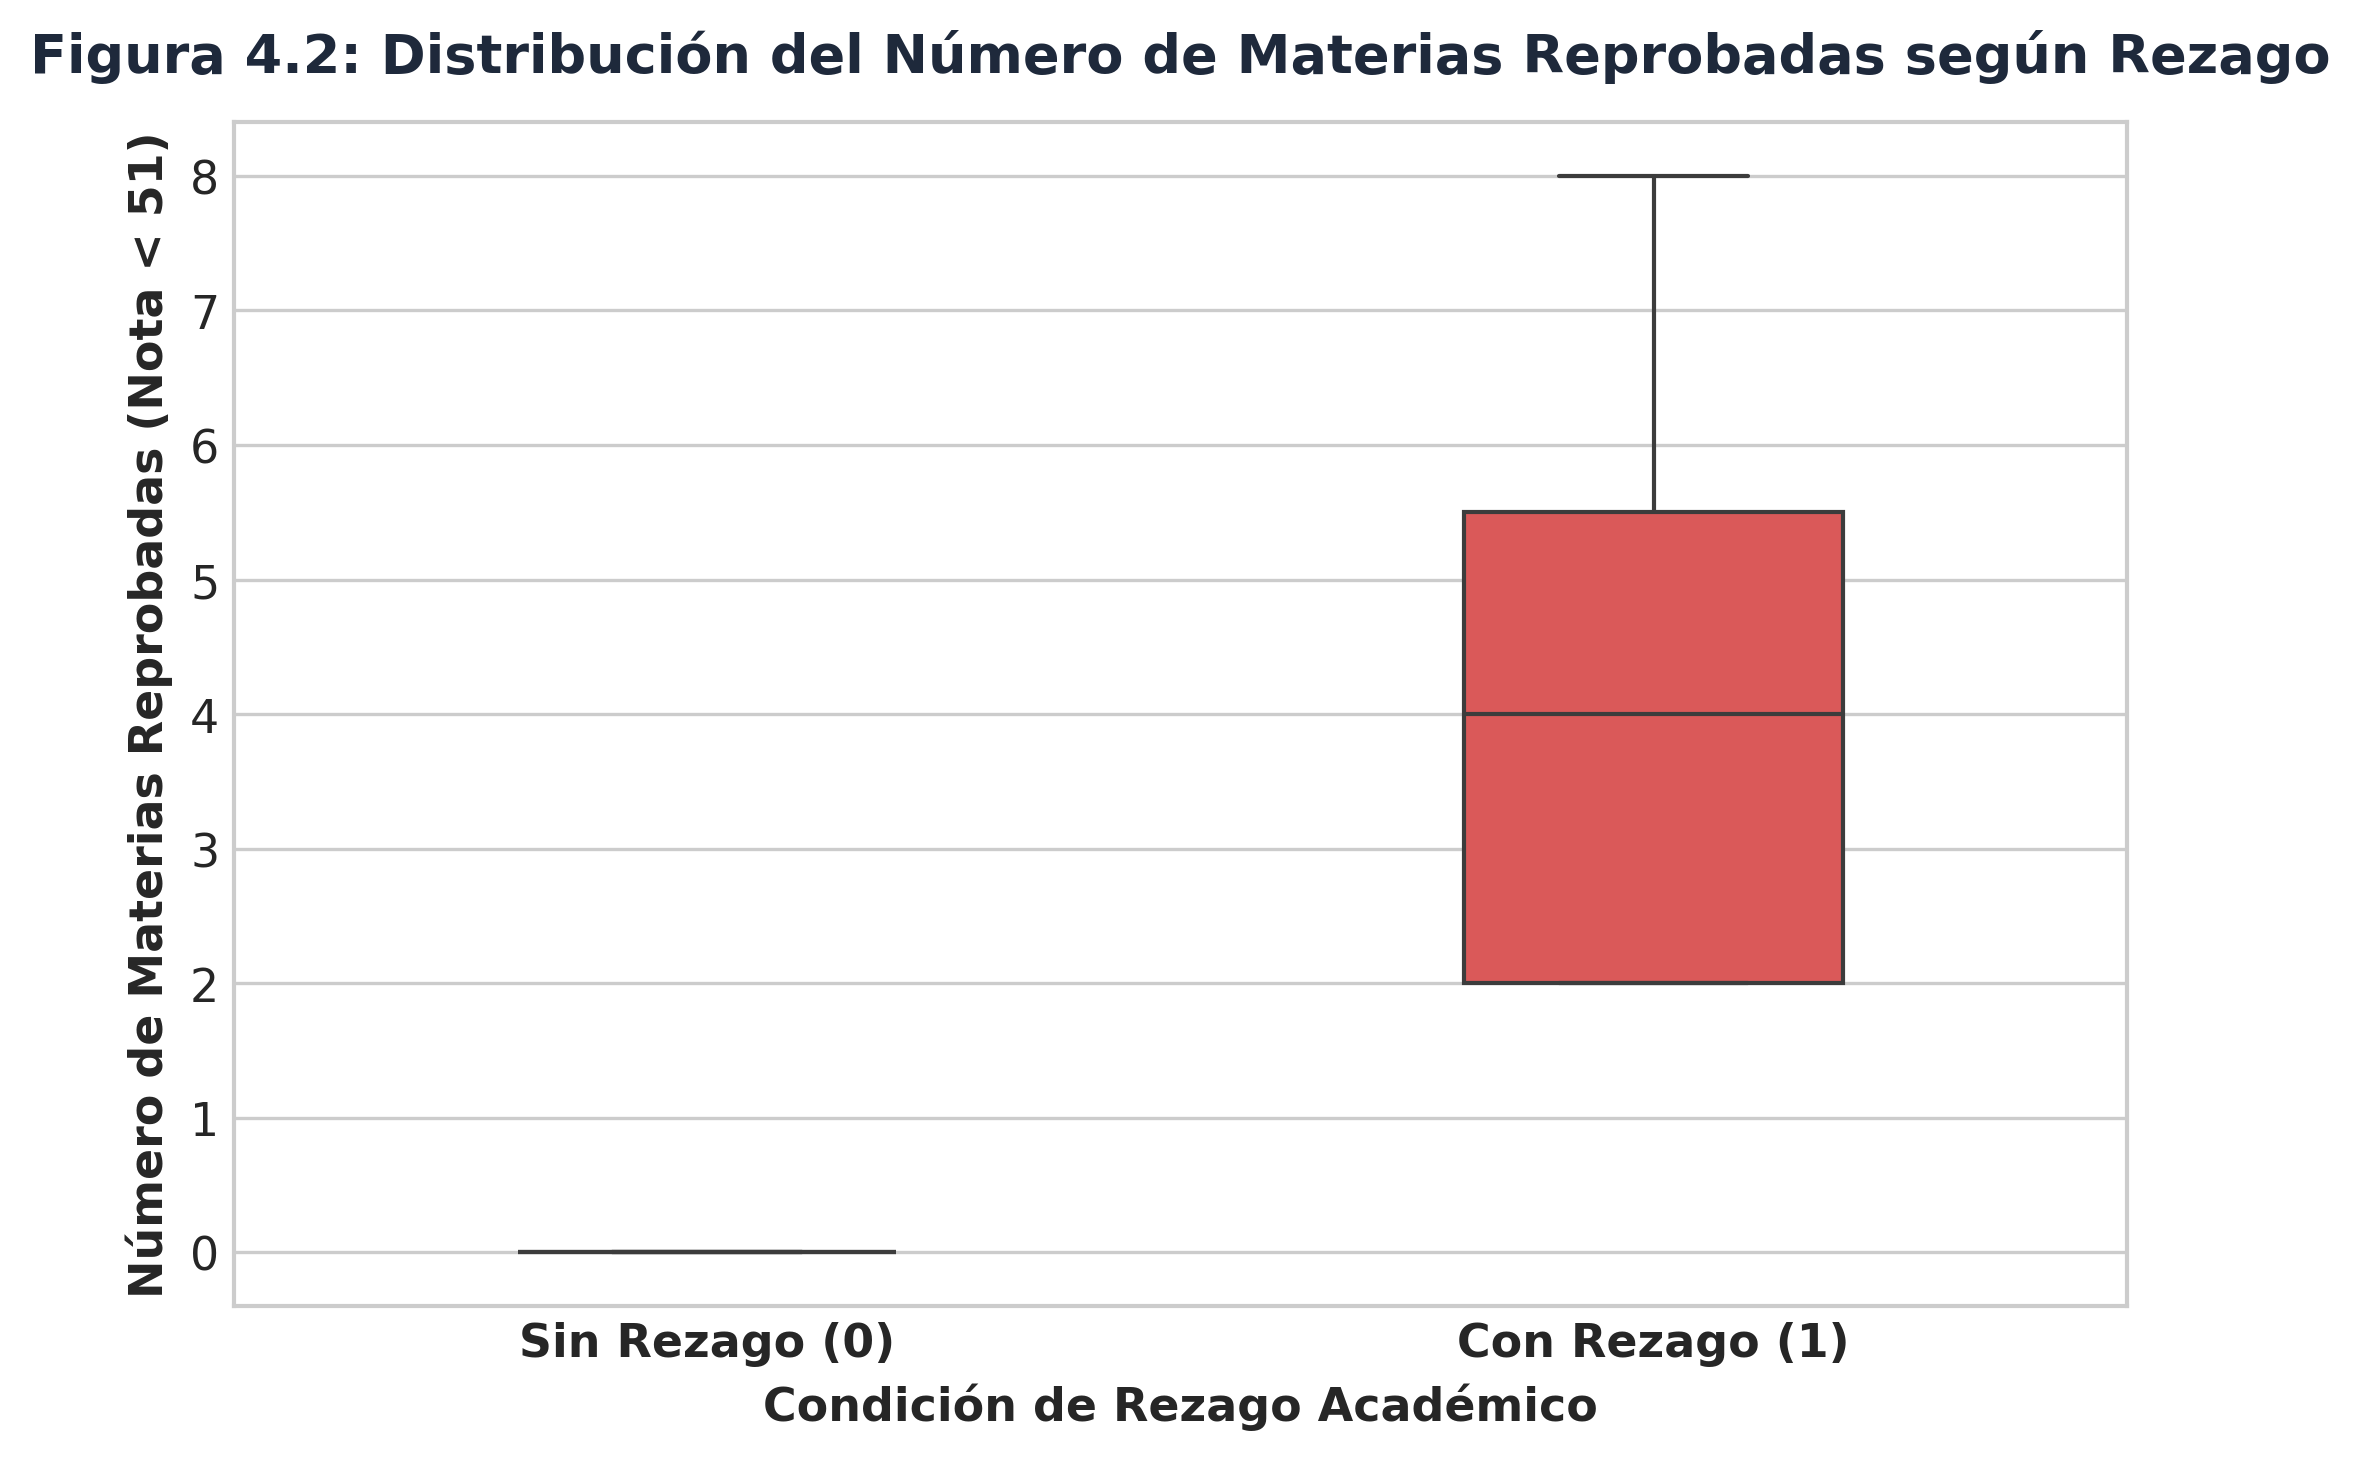
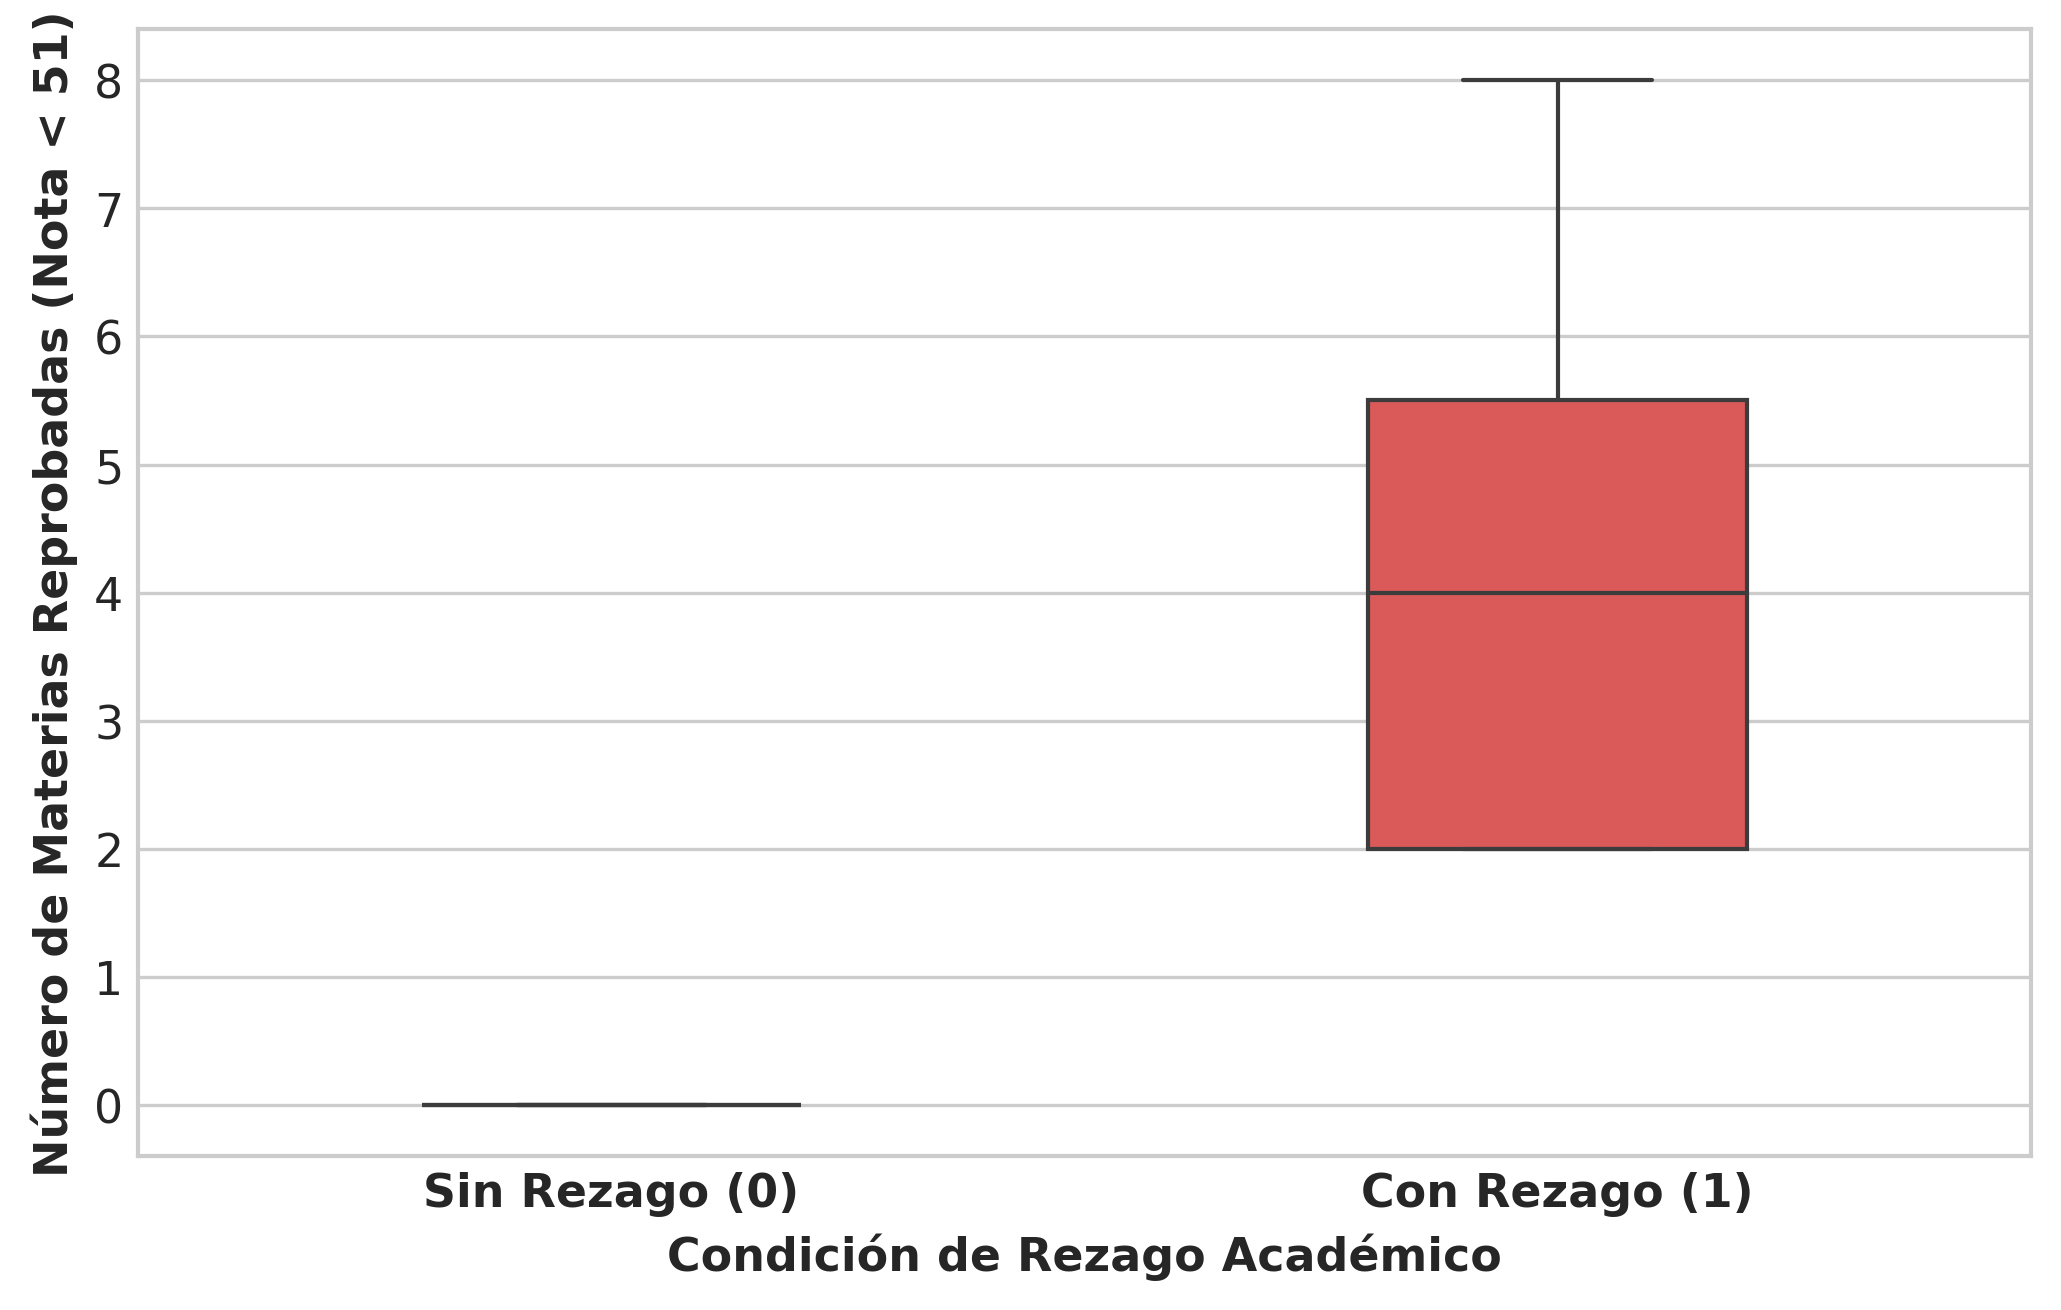
docs: remover titulos 'Figura X.X' del interior de las imagenes para estandar academico

diff --git a/scripts/generate_all_figures.py b/scripts/generate_all_figures.py
@@ -11,9 +11,8 @@ from sklearn.metrics import confusion_matrix
 plt.style.use('seaborn-v0_8-whitegrid')
 plt.rcParams['font.sans-serif'] = 'DejaVu Sans'
 plt.rcParams['font.size'] = 11
-plt.rcParams['axes.titlesize'] = 13
+plt.rcParams['axes.titlesize'] = 12
 plt.rcParams['axes.labelsize'] = 11
-plt.rcParams['figure.titlesize'] = 14
 
 FIG_DIR = os.path.abspath("documentacion/figuras")
 os.makedirs(FIG_DIR, exist_ok=True)
@@ -44,7 +43,7 @@ nombres_materias = {
 # FIGURA 3.1: FLUJOGRAMA METODOLÓGICO CRISP-DM ADAPTADO
 # ==============================================================================
 def gen_fig_3_1():
-    fig, ax = plt.subplots(figsize=(10, 6), dpi=300)
+    fig, ax = plt.subplots(figsize=(10, 5.5), dpi=300)
     ax.axis('off')
     
     phases = [
@@ -62,12 +61,10 @@ def gen_fig_3_1():
         x = 0.05 + col * 0.48
         y = 0.70 - row * 0.30
         
-        # Box
         rect = mpatches.FancyBboxPatch((x, y), 0.42, 0.22, boxstyle="round,pad=0.03", 
                                        ec=color, fc=color, alpha=0.1, lw=2)
         ax.add_patch(rect)
         
-        # Title box
         title_box = mpatches.FancyBboxPatch((x, y + 0.15), 0.42, 0.07, boxstyle="round,pad=0.01", 
                                             ec=color, fc=color, lw=1)
         ax.add_patch(title_box)
@@ -75,17 +72,16 @@ def gen_fig_3_1():
         ax.text(x + 0.21, y + 0.185, title, color='white', weight='bold', fontsize=11, ha='center', va='center')
         ax.text(x + 0.21, y + 0.07, desc, color='#1F2937', fontsize=9.5, ha='center', va='center')
         
-    ax.set_title("Figura 3.1: Flujograma Metodológico CRISP-DM adaptado al Proyecto", fontsize=14, pad=15, weight='bold', color='#1E293B')
     plt.tight_layout()
     plt.savefig(os.path.join(FIG_DIR, "fig_3_1_flujograma_crisp_dm.png"), dpi=300, bbox_inches='tight')
     plt.close()
-    print("Generated fig_3_1_flujograma_crisp_dm.png")
+    print("Generated fig_3_1_flujograma_crisp_dm.png (Clean title)")
 
 # ==============================================================================
 # FIGURA 3.2: ARQUITECTURA DE SOFTWARE DEL PROTOTIPO
 # ==============================================================================
 def gen_fig_3_2():
-    fig, ax = plt.subplots(figsize=(11, 6), dpi=300)
+    fig, ax = plt.subplots(figsize=(11, 5.5), dpi=300)
     ax.axis('off')
     
     components = [
@@ -105,36 +101,34 @@ def gen_fig_3_2():
         ax.text(x + 0.10, y + 0.30, title, color='white', weight='bold', fontsize=10, ha='center', va='center')
         ax.text(x + 0.10, y + 0.12, desc, color='#0F172A', fontsize=9, ha='center', va='center')
         
-    # Arrows
     for x_arrow in [0.255, 0.485, 0.715]:
         ax.annotate('', xy=(x_arrow + 0.02, 0.57), xytext=(x_arrow - 0.005, 0.57),
                     arrowprops=dict(arrowstyle="->", color="#334155", lw=2.5))
         
-    ax.set_title("Figura 3.2: Arquitectura de Software del Prototipo de Apoyo Docente", fontsize=14, pad=15, weight='bold', color='#1E293B')
     plt.tight_layout()
     plt.savefig(os.path.join(FIG_DIR, "fig_3_2_arquitectura_software.png"), dpi=300, bbox_inches='tight')
     plt.close()
-    print("Generated fig_3_2_arquitectura_software.png")
+    print("Generated fig_3_2_arquitectura_software.png (Clean title)")
 
 # ==============================================================================
 # FIGURA 3.3: FLUJO DE LA CAPA DE RESGUARDO PEDAGÓGICO
 # ==============================================================================
 def gen_fig_3_3():
-    fig, ax = plt.subplots(figsize=(10, 6.5), dpi=300)
+    fig, ax = plt.subplots(figsize=(10, 6), dpi=300)
     ax.axis('off')
     
     boxes = [
         ("Entrada Estudiante", "Promedio General & N° Materias Reprobadas", 0.35, 0.80, "#3B82F6"),
         ("Inferencia Modelo ML", "Calcula Probabilidad Base P_ML (RF / MLP)", 0.35, 0.62, "#8B5CF6"),
         ("Evaluación de Reglas de Resguardo", "¿Promedio < 51 ó Reprobadas >= 2?", 0.35, 0.42, "#F59E0B"),
-        ("SI: Ajuste Normativo", "P_final = max(P_ML, 0.85) -> 🔴 ALTO RIESGO", 0.05, 0.20, "#EF4444"),
+        ("SI: Ajuste Normativo", "P_final = max(P_ML, 0.85) -> ALTO RIESGO", 0.05, 0.20, "#EF4444"),
         ("NO: Evaluación Secundaria", "¿Reprobadas == 1 ó 51 <= Prom < 60?", 0.65, 0.42, "#3B82F6"),
-        ("SI: Alerta Media", "P_final = max(P_ML, 0.50) -> 🟡 MEDIO RIESGO", 0.45, 0.20, "#F59E0B"),
-        ("NO: Salida Estándar", "P_final = P_ML -> 🟢 BAJO RIESGO", 0.75, 0.20, "#10B981")
+        ("SI: Alerta Media", "P_final = max(P_ML, 0.50) -> MEDIO RIESGO", 0.45, 0.20, "#F59E0B"),
+        ("NO: Salida Estándar", "P_final = P_ML -> BAJO RIESGO", 0.75, 0.20, "#10B981")
     ]
     
     for title, desc, x, y, color in boxes:
-        w, h = (0.30, 0.12) if "Salida" in title or "SI:" in title else (0.30, 0.12)
+        w, h = (0.30, 0.12)
         rect = mpatches.FancyBboxPatch((x, y), w, h, boxstyle="round,pad=0.02", ec=color, fc=color, alpha=0.15, lw=2)
         ax.add_patch(rect)
         hdr = mpatches.FancyBboxPatch((x, y + h - 0.04), w, 0.04, boxstyle="round,pad=0.005", ec=color, fc=color)
@@ -142,11 +136,10 @@ def gen_fig_3_3():
         ax.text(x + w/2, y + h - 0.02, title, color='white', weight='bold', fontsize=9, ha='center', va='center')
         ax.text(x + w/2, y + (h-0.04)/2, desc, color='#0F172A', fontsize=8.5, ha='center', va='center')
 
-    ax.set_title("Figura 3.3: Diagrama de Flujo de la Capa Híbrida de Resguardo Pedagógico", fontsize=13, pad=15, weight='bold', color='#1E293B')
     plt.tight_layout()
     plt.savefig(os.path.join(FIG_DIR, "fig_3_3_capa_hibrida_resguardo.png"), dpi=300, bbox_inches='tight')
     plt.close()
-    print("Generated fig_3_3_capa_hibrida_resguardo.png")
+    print("Generated fig_3_3_capa_hibrida_resguardo.png (Clean title)")
 
 # ==============================================================================
 # FIGURA 4.1: TASA DE REPROBACIÓN POR MATERIA
@@ -155,7 +148,7 @@ def gen_fig_4_1():
     rates = (dataset[materias] < 51).mean().sort_values(ascending=True) * 100
     labels = [nombres_materias[m] for m in rates.index]
     
-    fig, ax = plt.subplots(figsize=(9, 5.5), dpi=300)
+    fig, ax = plt.subplots(figsize=(9, 5), dpi=300)
     colors = ['#EF4444' if r > 1.5 else '#F59E0B' if r > 0.8 else '#3B82F6' for r in rates.values]
     bars = ax.barh(labels, rates.values, color=colors, height=0.6, edgecolor='none')
     
@@ -165,27 +158,26 @@ def gen_fig_4_1():
         
     ax.set_xlim(0, 2.5)
     ax.set_xlabel("Tasa Porcentual de Reprobación (%)", fontsize=11, weight='bold')
-    ax.set_title("Figura 4.1: Tasa de Reprobación Porcentual por Asignatura Curricular", fontsize=13, pad=12, weight='bold', color='#1E293B')
     plt.tight_layout()
     plt.savefig(os.path.join(FIG_DIR, "fig_4_1_tasa_reprobacion_materia.png"), dpi=300, bbox_inches='tight')
     plt.close()
-    print("Generated fig_4_1_tasa_reprobacion_materia.png")
+    print("Generated fig_4_1_tasa_reprobacion_materia.png (Clean title)")
 
 # ==============================================================================
 # FIGURA 4.2: BOXPLOT MATERIAS REPROBADAS SEGÚN REZAGO
 # ==============================================================================
 def gen_fig_4_2():
-    fig, ax = plt.subplots(figsize=(7, 5), dpi=300)
+    fig, ax = plt.subplots(figsize=(7, 4.5), dpi=300)
     sns.boxplot(x='rezago', y='num_materias_reprobadas', data=dataset, ax=ax, palette=['#10B981', '#EF4444'], width=0.4)
     
+    ax.set_xticks([0, 1])
     ax.set_xticklabels(['Sin Rezago (0)', 'Con Rezago (1)'], fontsize=11, weight='bold')
     ax.set_xlabel("Condición de Rezago Académico", fontsize=11, weight='bold')
     ax.set_ylabel("Número de Materias Reprobadas (Nota < 51)", fontsize=11, weight='bold')
-    ax.set_title("Figura 4.2: Distribución del Número de Materias Reprobadas según Rezago", fontsize=13, pad=12, weight='bold', color='#1E293B')
     plt.tight_layout()
     plt.savefig(os.path.join(FIG_DIR, "fig_4_2_boxplot_materias_reprobadas.png"), dpi=300, bbox_inches='tight')
     plt.close()
-    print("Generated fig_4_2_boxplot_materias_reprobadas.png")
+    print("Generated fig_4_2_boxplot_materias_reprobadas.png (Clean title)")
 
 # ==============================================================================
 # FIGURA 4.3: EVOLUCIÓN TEMPORAL POR GESTIÓN
@@ -193,7 +185,7 @@ def gen_fig_4_2():
 def gen_fig_4_3():
     evol = dataset.groupby("gestion")["rezago"].mean() * 100
     
-    fig, ax = plt.subplots(figsize=(8, 4.5), dpi=300)
+    fig, ax = plt.subplots(figsize=(8, 4), dpi=300)
     bars = ax.bar(evol.index.astype(str), evol.values, color='#2563EB', width=0.45, edgecolor='none')
     
     for bar in bars:
@@ -203,11 +195,10 @@ def gen_fig_4_3():
     ax.set_ylim(0, 3.5)
     ax.set_xlabel("Gestión Académica", fontsize=11, weight='bold')
     ax.set_ylabel("Proporción de Rezago (%)", fontsize=11, weight='bold')
-    ax.set_title("Figura 4.3: Evolución de la Proporción de Rezago Académico (2021-2024)", fontsize=13, pad=12, weight='bold', color='#1E293B')
     plt.tight_layout()
     plt.savefig(os.path.join(FIG_DIR, "fig_4_3_evolucion_rezago_gestion.png"), dpi=300, bbox_inches='tight')
     plt.close()
-    print("Generated fig_4_3_evolucion_rezago_gestion.png")
+    print("Generated fig_4_3_evolucion_rezago_gestion.png (Clean title)")
 
 # ==============================================================================
 # FIGURA 4.4: REZAGO PROMEDIO POR CURSO
@@ -216,7 +207,7 @@ def gen_fig_4_4():
     orden_grados = ["PRIMERO", "SEGUNDO", "TERCERO", "CUARTO", "QUINTO", "SEXTO"]
     by_curso = (dataset.groupby("anio_escolaridad")["rezago"].mean() * 100).reindex(orden_grados)
     
-    fig, ax = plt.subplots(figsize=(8.5, 4.5), dpi=300)
+    fig, ax = plt.subplots(figsize=(8.5, 4), dpi=300)
     ax.plot(by_curso.index, by_curso.values, marker='o', linewidth=2.5, markersize=8, color='#8B5CF6', markerfacecolor='#6D28D9')
     
     for i, val in enumerate(by_curso.values):
@@ -225,22 +216,20 @@ def gen_fig_4_4():
     ax.set_ylim(0, 4.0)
     ax.set_xlabel("Curso de Escolaridad Primaria", fontsize=11, weight='bold')
     ax.set_ylabel("Tasa Promedio de Rezago (%)", fontsize=11, weight='bold')
-    ax.set_title("Figura 4.4: Proporción de Rezago Promedio por Grado Escolar", fontsize=13, pad=12, weight='bold', color='#1E293B')
     plt.tight_layout()
     plt.savefig(os.path.join(FIG_DIR, "fig_4_4_rezago_promedio_curso.png"), dpi=300, bbox_inches='tight')
     plt.close()
-    print("Generated fig_4_4_rezago_promedio_curso.png")
+    print("Generated fig_4_4_rezago_promedio_curso.png (Clean title)")
 
 # ==============================================================================
 # FIGURA 4.5: TRAYECTORIA LONGITUDINAL ESTUDIANTE
 # ==============================================================================
 def gen_fig_4_5():
-    # Pick a student with multiple years
     rudes = dataset["rude"].value_counts()
     sample_rude = rudes[rudes >= 3].index[0]
     sample_student = dataset[dataset["rude"] == sample_rude].sort_values("gestion")
     
-    fig, ax = plt.subplots(figsize=(8, 4.5), dpi=300)
+    fig, ax = plt.subplots(figsize=(8, 4), dpi=300)
     ax.plot(sample_student["gestion"].astype(str), sample_student["promedio_general"], marker='s', linewidth=2.5, markersize=8, color='#059669', markerfacecolor='#047857')
     ax.axhline(51.0, color='#EF4444', linestyle='--', linewidth=1.5, label='Límite Mínimo de Aprobación (51 pts)')
     
@@ -250,18 +239,17 @@ def gen_fig_4_5():
     ax.set_ylim(40, 100)
     ax.set_xlabel("Gestión Académica", fontsize=11, weight='bold')
     ax.set_ylabel("Promedio General (0 - 100 pts)", fontsize=11, weight='bold')
-    ax.set_title(f"Figura 4.5: Evolución Académica Longitudinal de un Estudiante de Ejemplo", fontsize=13, pad=12, weight='bold', color='#1E293B')
     ax.legend(loc='lower right', frameon=True)
     plt.tight_layout()
     plt.savefig(os.path.join(FIG_DIR, "fig_4_5_trayectoria_estudiante_ejemplo.png"), dpi=300, bbox_inches='tight')
     plt.close()
-    print("Generated fig_4_5_trayectoria_estudiante_ejemplo.png")
+    print("Generated fig_4_5_trayectoria_estudiante_ejemplo.png (Clean title)")
 
 # ==============================================================================
 # FIGURA 4.6: MATRICES DE CONFUSIÓN COMPARATIVAS
 # ==============================================================================
 def gen_fig_4_6():
-    fig, (ax1, ax2) = plt.subplots(1, 2, figsize=(9, 4), dpi=300)
+    fig, (ax1, ax2) = plt.subplots(1, 2, figsize=(9, 3.8), dpi=300)
     
     cm_rf = np.array([[49, 1], [1, 0]])
     cm_mlp = np.array([[50, 0], [1, 0]])
@@ -274,21 +262,20 @@ def gen_fig_4_6():
                 xticklabels=['Pred No Rezago', 'Pred Rezago'], yticklabels=['No Rezago', 'Rezago'])
     ax2.set_title("Red Neuronal MLP (StandardScaler)", fontsize=11, weight='bold')
     
-    fig.suptitle("Figura 4.6: Matrices de Confusión Comparativas en Conjunto de Prueba Filtrado (N=51)", fontsize=13, weight='bold', y=1.03, color='#1E293B')
     plt.tight_layout()
     plt.savefig(os.path.join(FIG_DIR, "fig_4_6_matriz_confusion_modelos.png"), dpi=300, bbox_inches='tight')
     plt.close()
-    print("Generated fig_4_6_matriz_confusion_modelos.png")
+    print("Generated fig_4_6_matriz_confusion_modelos.png (Clean title)")
 
 # ==============================================================================
 # FIGURA 4.7: DISTRIBUCIÓN DE NIVELES DE RIESGO
 # ==============================================================================
 def gen_fig_4_7():
-    labels = ['Bajo Riesgo (🟢)', 'Medio Riesgo (🟡)', 'Alto Riesgo (🔴)']
+    labels = ['Bajo Riesgo', 'Medio Riesgo', 'Alto Riesgo']
     sizes = [1095, 16, 7]
     colors = ['#10B981', '#F59E0B', '#EF4444']
     
-    fig, ax = plt.subplots(figsize=(6.5, 5), dpi=300)
+    fig, ax = plt.subplots(figsize=(6.5, 4.5), dpi=300)
     wedges, texts, autotexts = ax.pie(sizes, labels=labels, autopct='%1.1f%%', startangle=140, colors=colors,
                                       wedgeprops=dict(width=0.4, edgecolor='white', linewidth=2),
                                       textprops=dict(size=10, weight='bold'))
@@ -297,11 +284,10 @@ def gen_fig_4_7():
         autotext.set_color('white')
         autotext.set_fontsize(10)
         
-    ax.set_title("Figura 4.7: Distribución Proporcional de Estudiantes por Nivel de Riesgo", fontsize=13, pad=12, weight='bold', color='#1E293B')
     plt.tight_layout()
     plt.savefig(os.path.join(FIG_DIR, "fig_4_7_distribucion_riesgo_estudiantes.png"), dpi=300, bbox_inches='tight')
     plt.close()
-    print("Generated fig_4_7_distribucion_riesgo_estudiantes.png")
+    print("Generated fig_4_7_distribucion_riesgo_estudiantes.png (Clean title)")
 
 
 if __name__ == "__main__":
@@ -315,4 +301,4 @@ if __name__ == "__main__":
     gen_fig_4_5()
     gen_fig_4_6()
     gen_fig_4_7()
-    print("All statistical and diagrammatic figures generated cleanly!")
+    print("All statistical and diagrammatic figures re-generated without figure titles inside image!")
